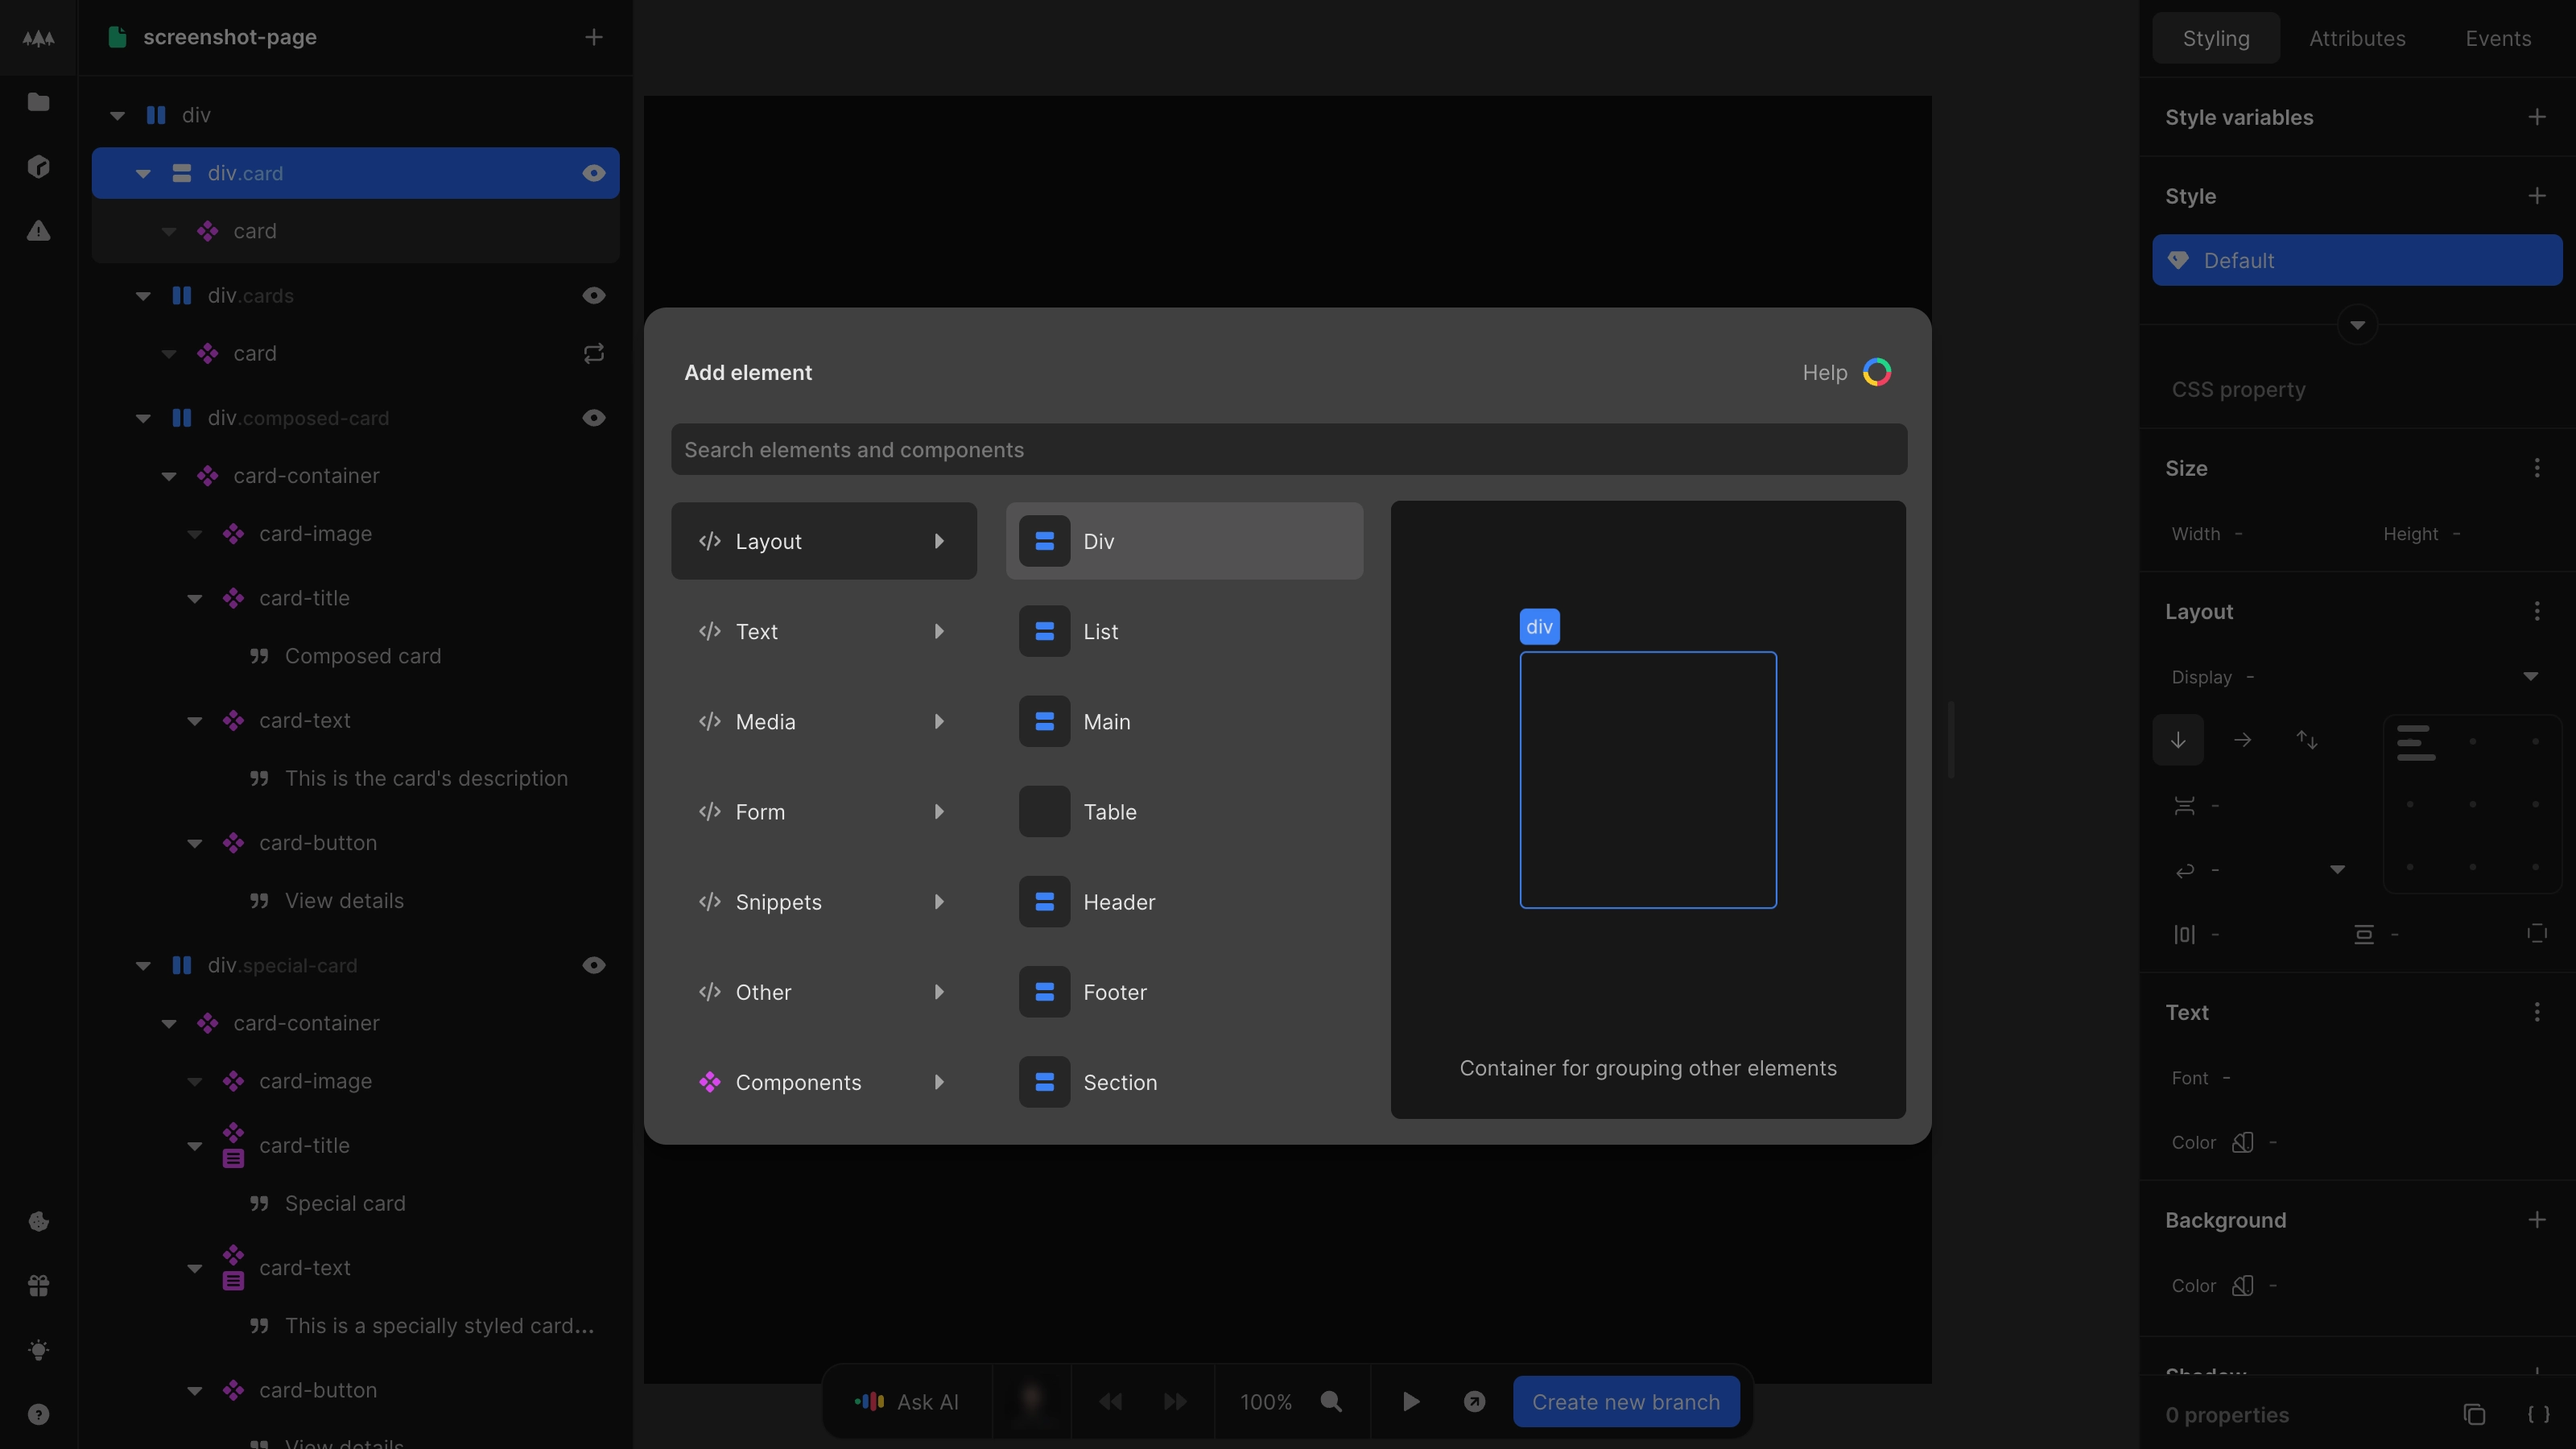
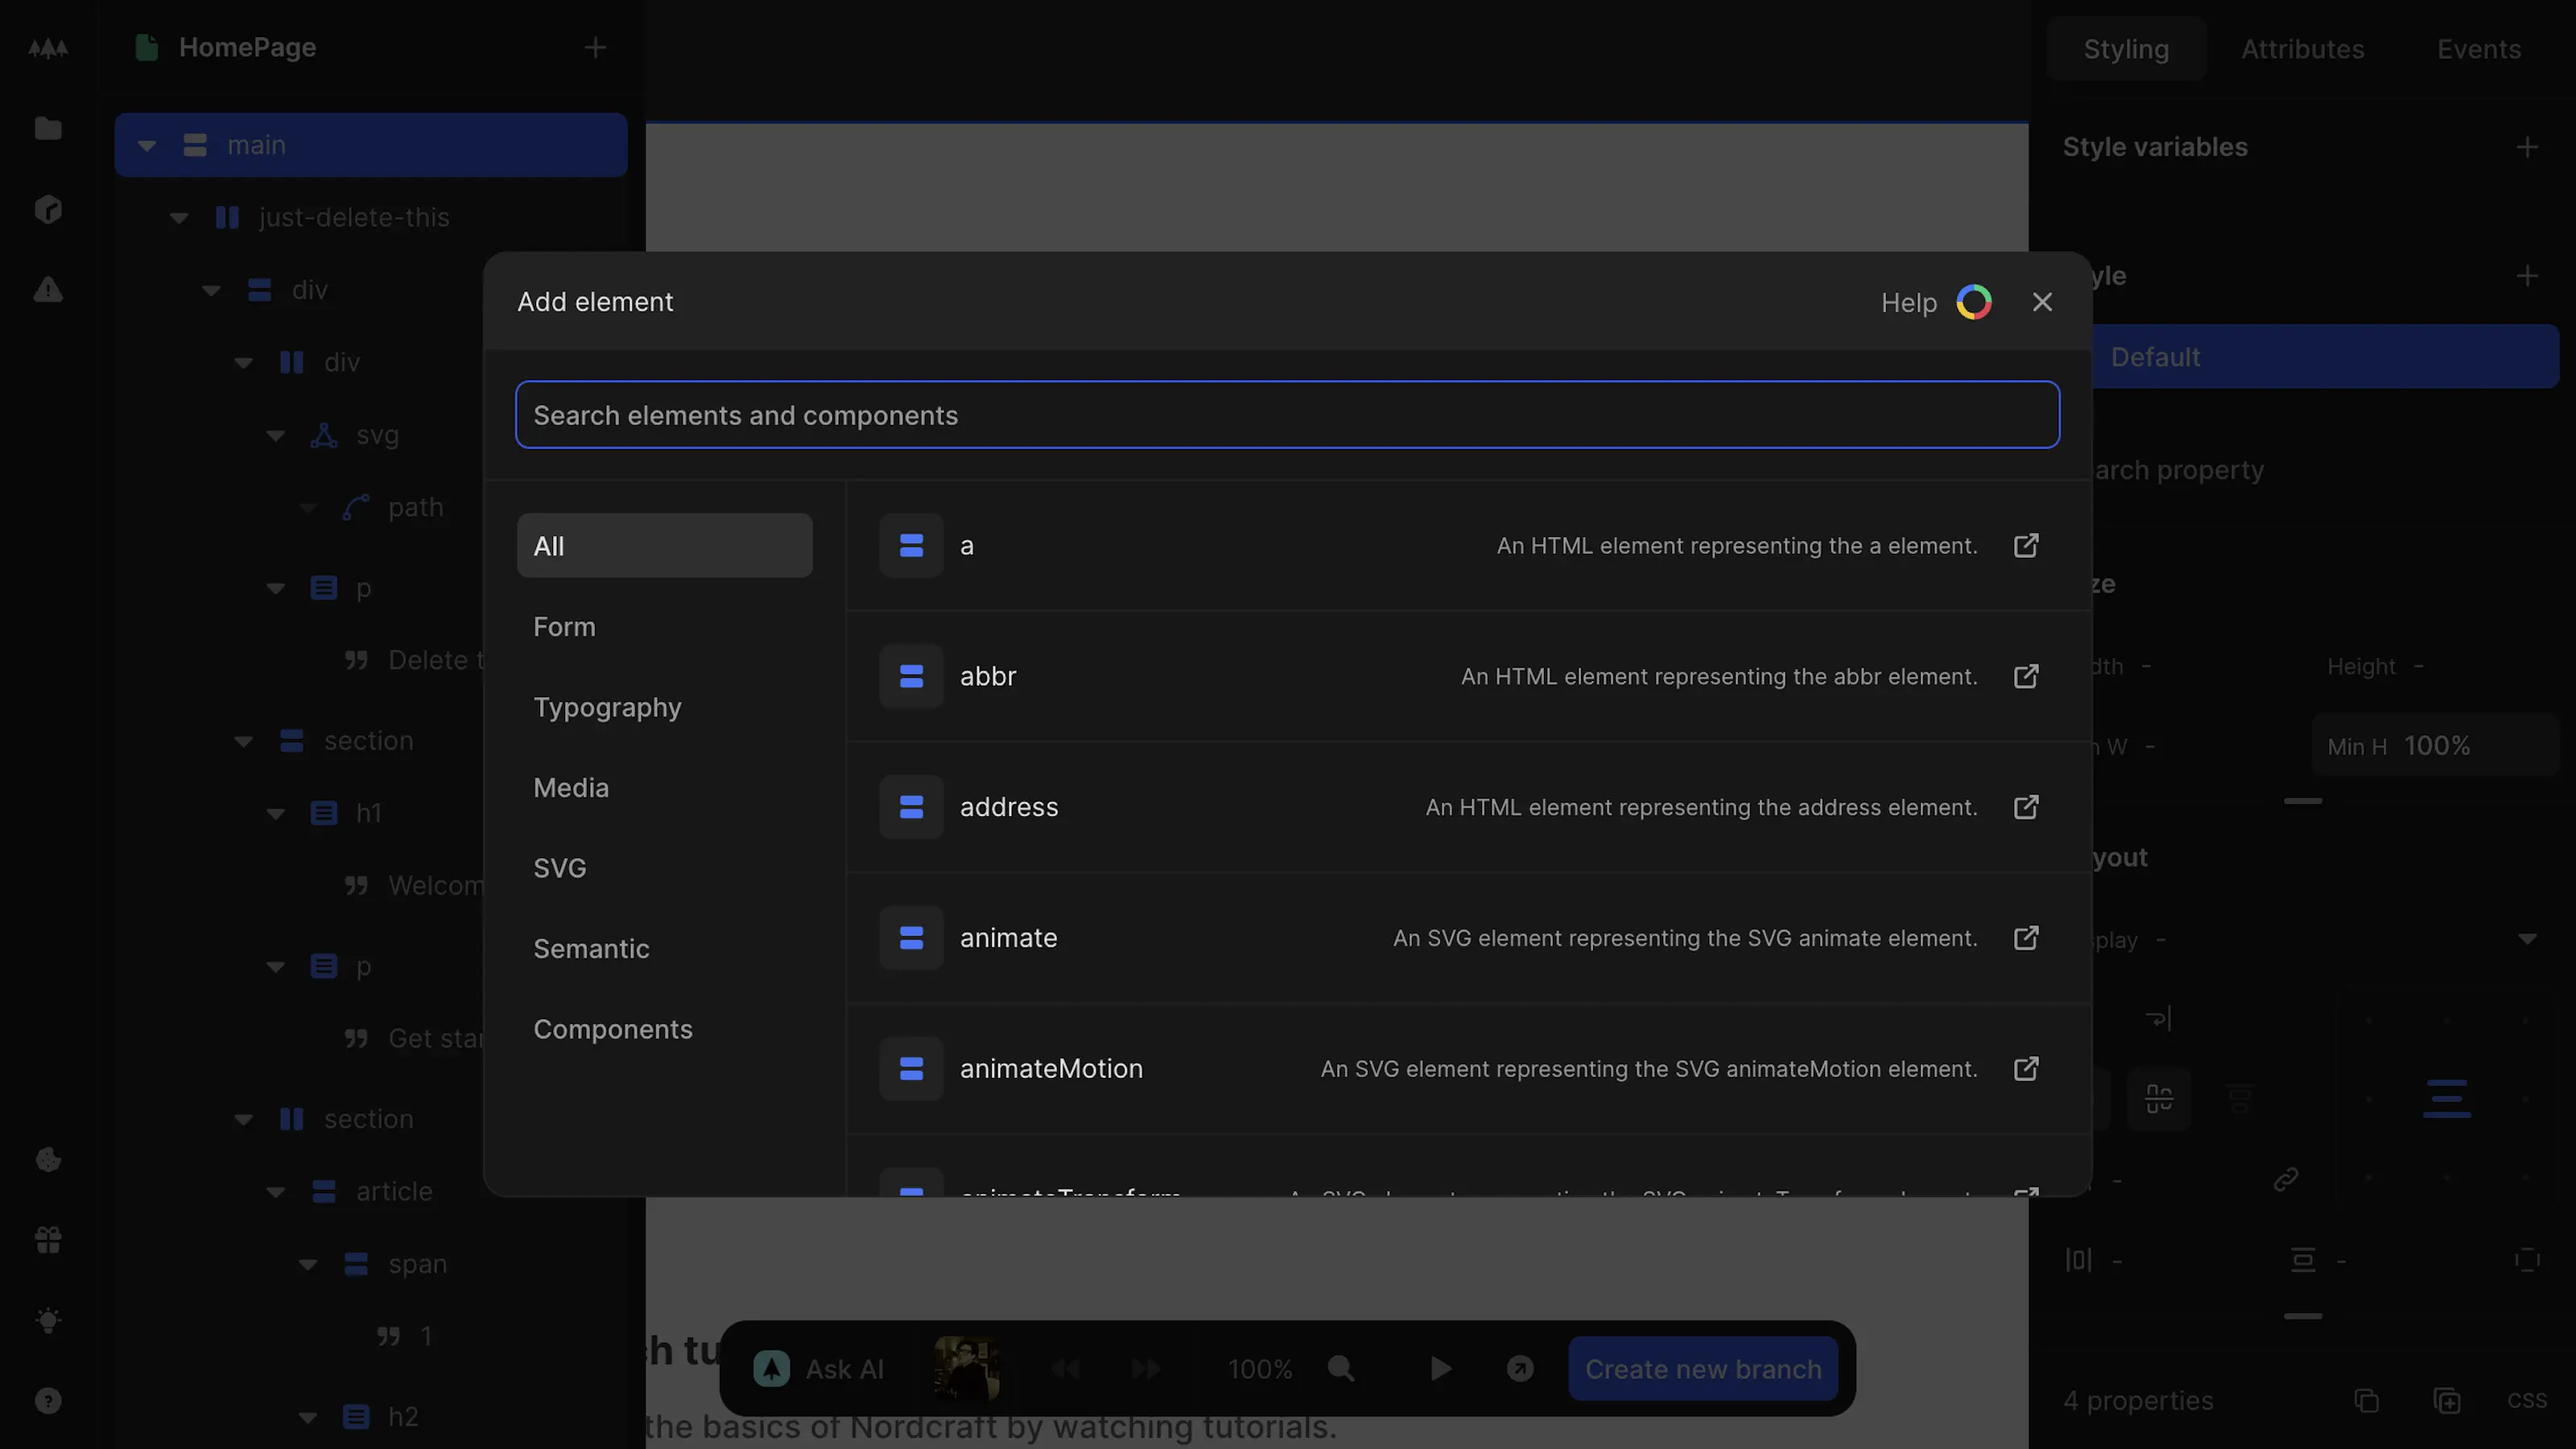
Update element catlogue with new screenshots and updated copy

diff --git a/docs/06-the-editor/04-element-tree/index.md b/docs/06-the-editor/04-element-tree/index.md
@@ -5,7 +5,7 @@ description: Understand the Nordcraft element tree for structural editing, eleme
 
 # Element tree
 
-The element tree provides a structural overview of your project, displaying all elements and componenents in your page or component hierarchically.
+The element tree provides a structural overview of your project, displaying all HTML elements and Nordcraft componenents in your page or component hierarchically.
 
 ![Element tree|16/9](element-tree.webp){https://editor.nordcraft.com/projects/docs_examples/branches/main/components/screenshot-page?canvas-width=800&canvas-height=800}
 
@@ -49,14 +49,14 @@ Add a new element in one of three ways:
 
 ![Element catalog|16/9](element-catalog.webp){https://editor.nordcraft.com/projects/docs_examples/branches/main/components/screenshot-page?rightpanel=style&canvas-width=800&canvas-height=800&selection=nodes.m6MApQ1ZZSiZ5iH6kAUWE&elementCatalog=true}
 
-The element catalog provides a collection of HTML elements and components organized by category. This makes it easy to find exactly what you need for your project. The catalog allows you to:
+The element catalog provides all HTML elements and components in your project organized by category. This makes it easy to find exactly what you need for your project. The catalog allows you to:
 
 - Browse different element types grouped by functionality
-- Search for specific elements and components
+- Search for specific elements and components by tag name and aliases
 - View components from installed packages
 
 Select an element to add it to your project. The element will be added as a child of the currently selected element or as the first child of the root element if no element is selected.
 
 ::: tip
-The Nordcraft element catalog contains the most commonly used HTML elements. To add an element that is not listed in the catalog, add any element, and edit its `Tag` under `Attributes` in the Right panel.
+If you need to change the tag name of an HTML element, edit its `Tag` under `Attributes` in the right panel. This saves you having to delete and re-add elements.
 :::
